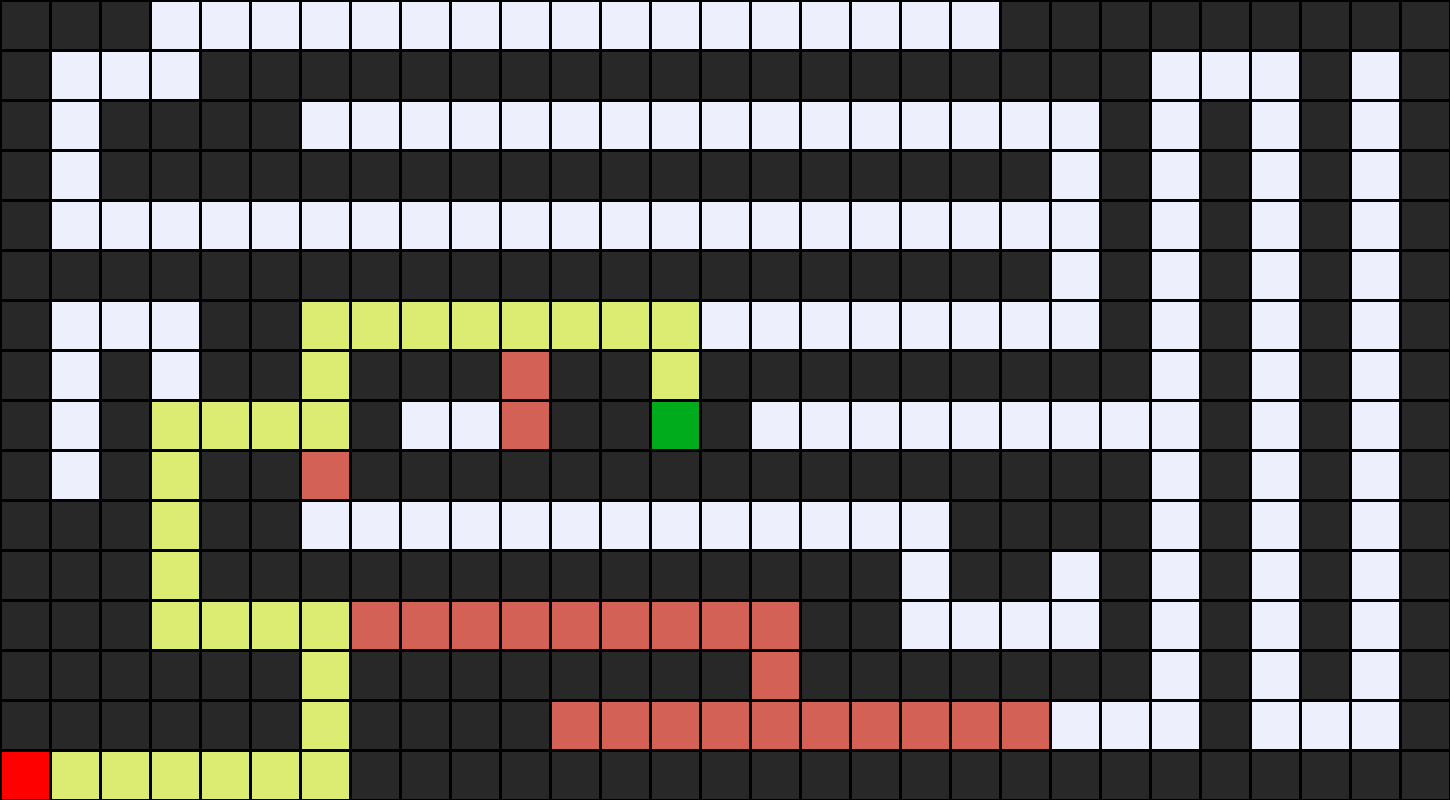
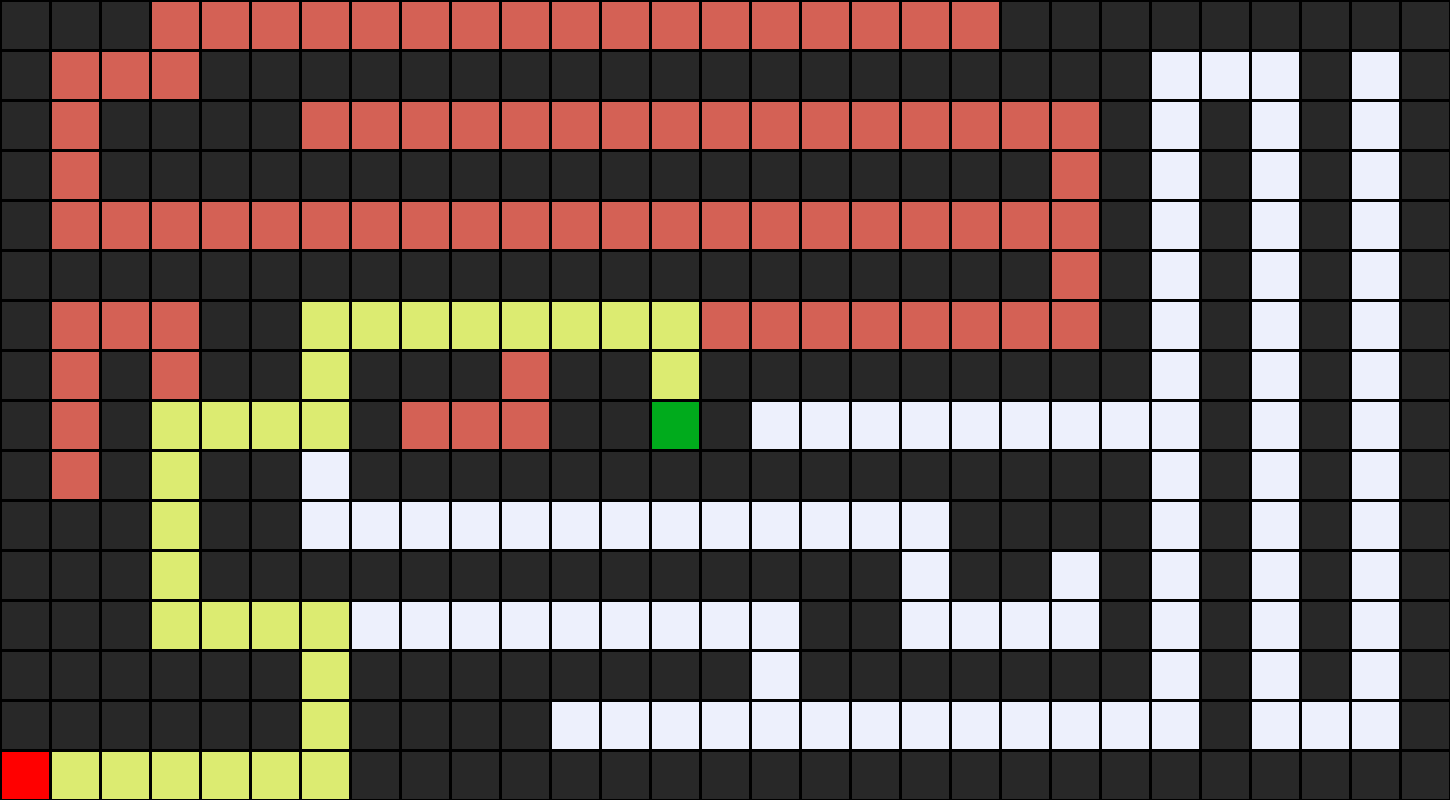
implemented A*

diff --git a/solvers.py b/solvers.py
@@ -1,6 +1,5 @@
 import math
 
-
 def reconstruct_node_history(node):
     actions = []
     cells = []
@@ -12,11 +11,20 @@ def reconstruct_node_history(node):
     cells.reverse()
     return (actions, cells)
 
-def manhattan_distance(node, goal):
-    return abs(node.state[0] - goal[0]) + abs(node.state[1] - goal[1])
+def manhattan_distance(state, goal):
+    return abs(state[0] - goal[0]) + abs(state[1] - goal[1])
 
-def uninformed_solver(Maze, Node, Frontier):
-    "includes dfs and bfs, specified by the frontier"
+def uninformed_search(Maze, Node, Frontier):
+    """
+    Uninformed search algorithms, also known as blind search, do not utilize any domain-specific knowledge for their search strategy.
+    
+    This function can implement either a Depth-First Search (DFS) or a Breadth-First Search (BFS) algorithm based on the type of Frontier provided:
+    
+    - If the Frontier is a StackFrontier (implementing a Last-In First-Out data structure), the function performs a DFS, which explores as deeply as possible along each branch of the search tree before backtracking.
+    
+    - If the Frontier is a QueueFrontier (representing the frontier as a queue, a First-In Last-Out data structure), the function performs a BFS, which explores all nodes at the current level before moving to the next level in the search tree.
+    """
+    # initialize a frontier containing the starting node 
     num_explored = 0
     start = Node(state=Maze.start, parent=None, action=None)
     frontier = Frontier()
@@ -25,52 +33,82 @@ def uninformed_solver(Maze, Node, Frontier):
     # initialize an empty explored set
     explored = set()
 
-    # loop until the solution is found
+    # loop until the solution is found or there are no more nodes in the frontier
     while not frontier.empty():
 
         # pick a node from the frontier 
         node = frontier.remove()
         num_explored +=1
 
+        # check if the current node is the goal state
         if node.state == Maze.goal:
             Maze.solution = reconstruct_node_history(node)
             Maze.explored = explored
             Maze.num_explored = num_explored
             return
 
+        # if the current node is not the goal state , add it to the explored set
         explored.add(node.state)
 
+        # explore the neighbors of the current node for valid nodes to explore next
         for action, state in Maze.neighbors(node.state):
+            # make sure the state is not already present in the frontier nor in the explored set
             if not frontier.contains_state(state) and state not in explored:
+                # generate a child node and push it into the frontier
                 child = Node(state=state, parent=node, action=action)
                 frontier.add(child)
 
 
-def greedy_bfs(Maze, Node, Frontier):
+def informed_search(Maze, Node, Frontier, frontier_sort_key):
+    """
+    Informed search algorithms use problem-specific knowledge to find the solution more efficiently.
+
+    This function can implement Greedy Best First Search (GBFS) and A* algorithms based on the `frontier_sort_key`. 
+    The `frontier_sort_key` can be one of the following:
+    
+    - For Greedy Best-First Search (GBFS): 
+      `frontier_sort_key = lambda x: x.h_cost`
+      (where `x.h_cost` is the heuristic cost)
+
+    - For A* Search: 
+      `frontier_sort_key = lambda x: x.h_cost + x.g_cost`
+      (where `x.h_cost` is the heuristic cost and `x.g_cost` is the actual cost from the start)
+    """
+    # initialize a frontier containing the starting node 
     num_explored = 0
-    start = Node(state=Maze.start, parent=None, action=Node, priority=-math.inf)
+    start = Node(state=Maze.start, parent=None, action=Node, h_cost= -math.inf, g_cost = 0)
     frontier = Frontier()
     frontier.add(start)
 
+    # initialize an empty explored set
     explored = set()
+
+    # loop until the solution is found or there are no more nodes in the frontier
     while not frontier.empty():
-        # pick a node from the frontier 
-        node = frontier.remove()
+
+        # pick a node from the frontier based on the 'frontier_sort_key' function
+        node = frontier.remove(frontier_sort_key)
         num_explored +=1
 
+        # check if the current node is the goal state
         if node.state == Maze.goal:
             Maze.solution = reconstruct_node_history(node)
             Maze.explored = explored
             Maze.num_explored = num_explored
             return
 
+        # if the current node is not the goal state , add it to the explored set
         explored.add(node.state)
 
+        # explore the neighbors of the current node for valid nodes to explore next
         for action, state in Maze.neighbors(node.state):
+            # make sure the state is not already in the explored set
             if state not in explored:
-                child = Node(state, parent=node, action=action)
-                priority = manhattan_distance(child, Maze.goal)
-                child.priority = priority
+                # compute the h_cost of the current state using manhattan distance 
+                h_cost = manhattan_distance(state, Maze.goal)
+                # generate a child node and push it into the frontier
+                child = Node(state, parent=node, action=action, h_cost = h_cost,
+                             g_cost = node.g_cost + 1)
                 frontier.add(child)
 
     raise Exception("no solution ")

diff --git a/main.py b/main.py
@@ -1,41 +1,44 @@
-import sys
 import argparse
 
-from maze import Maze, Node, StackFrontier, QueueFrontier, PriorityFrontier
-from solvers import uninformed_solver, greedy_bfs
+from maze import Maze, Node, StackFrontier, QueueFrontier, CostFrontier
+from solvers import informed_search, uninformed_search
 
+ALGORITHMS = {
+    "dfs": (uninformed_search, StackFrontier),
+    "bfs": (uninformed_search, QueueFrontier),
+    "gbfs": (informed_search, CostFrontier, lambda x: x.h_cost),
+    "a_star": (informed_search, CostFrontier, lambda x: x.h_cost + x.g_cost),
+    "a*": (informed_search, CostFrontier, lambda x: x.h_cost + x.g_cost)
+}
 
-parser = argparse.ArgumentParser()
-parser.add_argument("algorithm", help="[dfs, bfs, qbfs]")
-parser.add_argument("maze_file", help="txt file of the maze including a start point A and target B",
-                    default="maze.txt")
-args = parser.parse_args()
+def parse_arguments():
+    parser = argparse.ArgumentParser()
+    parser.add_argument("algorithm", help="[dfs, bfs, gbfs, [a_star, a*]]")
+    parser.add_argument("maze_file", help="txt file of the maze including a start point A and target B",
+                        default="maze.txt")
+    args = parser.parse_args()
+    return args.algorithm, args.maze_file
 
-algorithm = args.algorithm
-maze_file = args.maze_file
+def main():
+    algorithm, maze_file = parse_arguments()
 
-algorithm_args = []
-algorithm_args.append(Node)
-solver = None
-if algorithm == "dfs":
-    solver = uninformed_solver
-    algorithm_args.append(StackFrontier)
-elif algorithm == "bfs":
-    solver = uninformed_solver
-    algorithm_args.append(QueueFrontier)
-elif algorithm == "gbfs":
-    solver = greedy_bfs
-    algorithm_args.append(PriorityFrontier)
+    if algorithm not in ALGORITHMS:
+        print("Invalid algorithm. Please choose from: dfs, bfs, gbfs, [a_star, a*]")
+        return
 
+    solver, *algorithm_args = ALGORITHMS[algorithm]
 
-m = Maze(maze_file)
-print("Maze:")
-m.print()
+    m = Maze(maze_file)
+    print("Maze:")
+    m.print()
 
-print("Solving...")
-m.solve(solver, *algorithm_args)
+    print("Solving...")
+    m.solve(solver, Node, *algorithm_args)
 
-print("States Explored:", m.num_explored)
-print("Solution:")
-m.print()
-m.output_image("maze.png", show_explored=True)
+    print("States Explored:", m.num_explored)
+    print("Solution:")
+    m.print()
+    m.output_image("maze.png", show_explored=True)
+
+if __name__ == "__main__":
+    main()

diff --git a/maze.py b/maze.py
@@ -1,15 +1,10 @@
-import sys
-from typing import Tuple
-import math
-from solvers import uninformed_solver, greedy_bfs
-
-
 class Node():
-    def __init__(self, state, parent, action, priority = None):
+    def __init__(self, state, parent, action, h_cost = None, g_cost = 0):
         self.state = state
         self.parent = parent
         self.action = action
-        self.priority = priority
+        self.h_cost = h_cost
+        self.g_cost = g_cost
 
 
 class StackFrontier():
@@ -44,22 +39,17 @@ class QueueFrontier(StackFrontier):
             return node
 
 
-class PriorityFrontier(StackFrontier):
-    def contains_state(self, state):
-        pass
-
-    def remove(self):
+class CostFrontier(StackFrontier):
+    def remove(self, sort_function):
         if self.empty():
             raise Exception("empty frontier")
         else:
-            self.frontier.sort(key=lambda x: x.priority)
+            self.frontier.sort(key=sort_function)
             node = self.frontier.pop(0)
             return node
 
 
-
 class Maze():
-
     def __init__(self, filename):
 
         # Read file and set height and width of maze
@@ -98,6 +88,7 @@ class Maze():
             self.walls.append(row)
 
         self.solution = None
+        self.explored = None
         self.num_explored = 0
 
 
